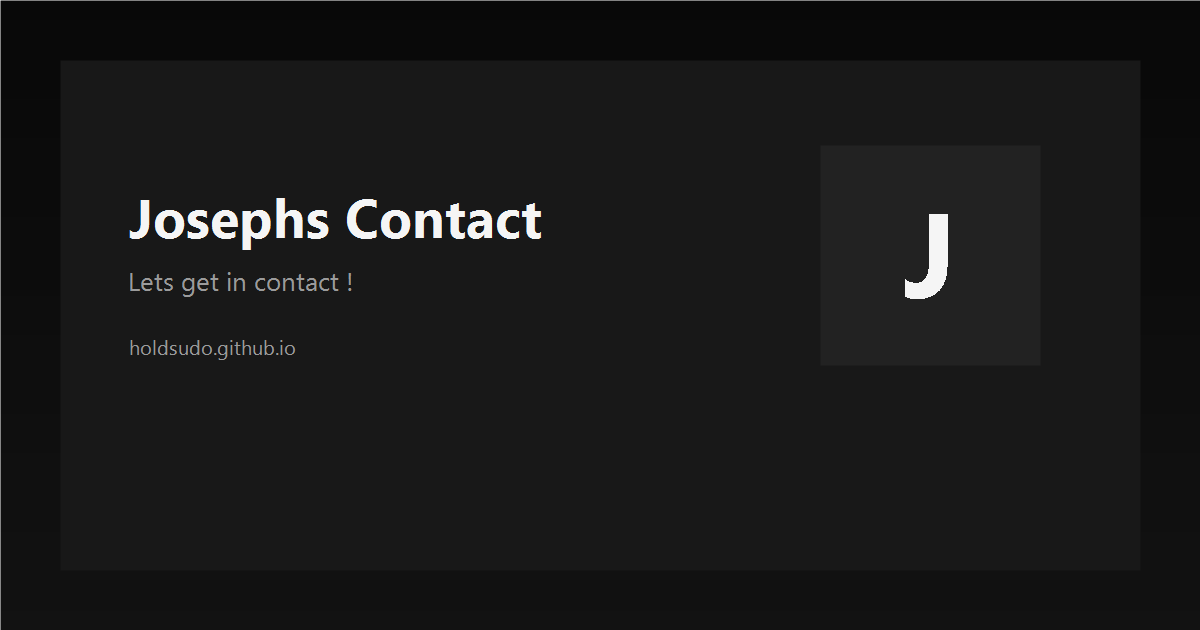
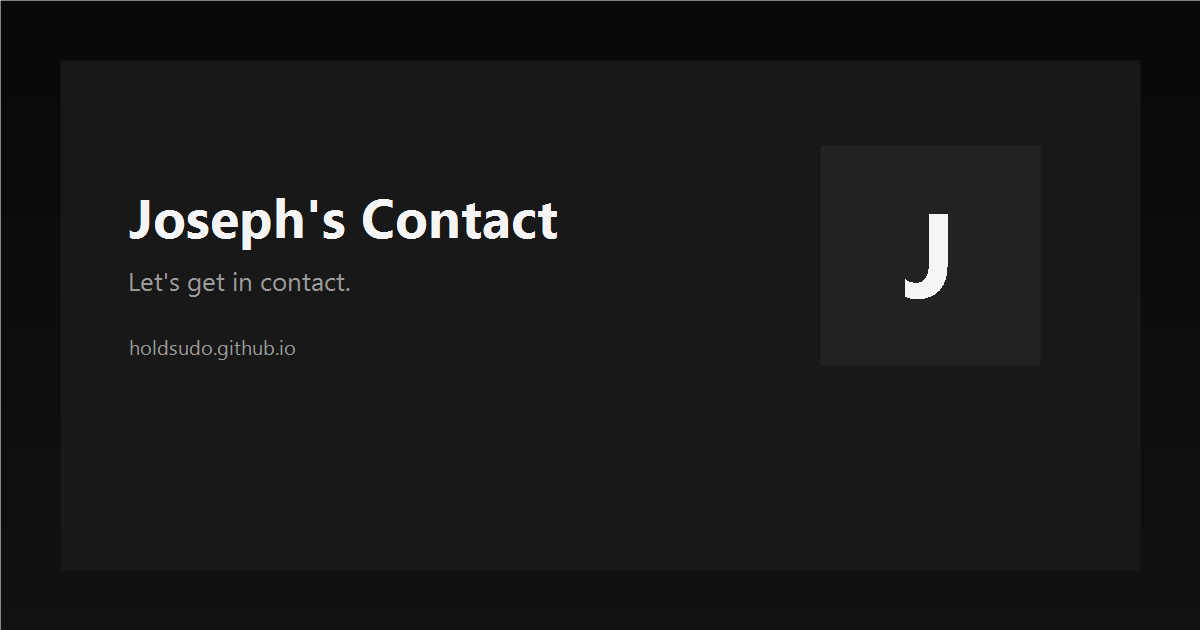
Fix share preview punctuation

Changed region(s): [[0.2467, 0.3016, 0.4625, 0.3921], [0.1233, 0.4222, 0.3083, 0.4825]]

diff --git a/index.html b/index.html
@@ -3,28 +3,28 @@
 <head>
   <meta charset="UTF-8" />
   <meta name="viewport" content="width=device-width, initial-scale=1.0, viewport-fit=cover" />
-  <title>Josephs Contact</title>
-  <meta name="description" content="Lets get in contact !" />
+  <title>Joseph's Contact</title>
+  <meta name="description" content="Let's get in contact." />
   <meta name="theme-color" content="#080808" />
   <meta name="msapplication-TileColor" content="#080808" />
   <meta name="mobile-web-app-capable" content="yes" />
   <meta name="apple-mobile-web-app-capable" content="yes" />
-  <meta name="apple-mobile-web-app-title" content="Josephs Contact" />
+  <meta name="apple-mobile-web-app-title" content="Joseph's Contact" />
   <meta name="apple-mobile-web-app-status-bar-style" content="black-translucent" />
   <link rel="canonical" href="https://holdsudo.github.io/" />
   <meta property="og:type" content="website" />
-  <meta property="og:title" content="Josephs Contact" />
-  <meta property="og:description" content="Lets get in contact !" />
+  <meta property="og:title" content="Joseph's Contact" />
+  <meta property="og:description" content="Let's get in contact." />
   <meta property="og:url" content="https://holdsudo.github.io/" />
   <meta property="og:image" content="https://holdsudo.github.io/social-preview.png" />
   <meta property="og:image:width" content="1200" />
   <meta property="og:image:height" content="630" />
-  <meta property="og:image:alt" content="Josephs Contact preview image" />
+  <meta property="og:image:alt" content="Joseph's Contact preview image" />
   <meta name="twitter:card" content="summary_large_image" />
-  <meta name="twitter:title" content="Josephs Contact" />
-  <meta name="twitter:description" content="Lets get in contact !" />
+  <meta name="twitter:title" content="Joseph's Contact" />
+  <meta name="twitter:description" content="Let's get in contact." />
   <meta name="twitter:image" content="https://holdsudo.github.io/social-preview.png" />
-  <meta name="twitter:image:alt" content="Josephs Contact preview image" />
+  <meta name="twitter:image:alt" content="Joseph's Contact preview image" />
   <link rel="icon" type="image/svg+xml" href="favicon.svg" />
   <link rel="icon" type="image/png" sizes="192x192" href="icon-192.png" />
   <link rel="icon" type="image/png" sizes="512x512" href="icon-512.png" />
